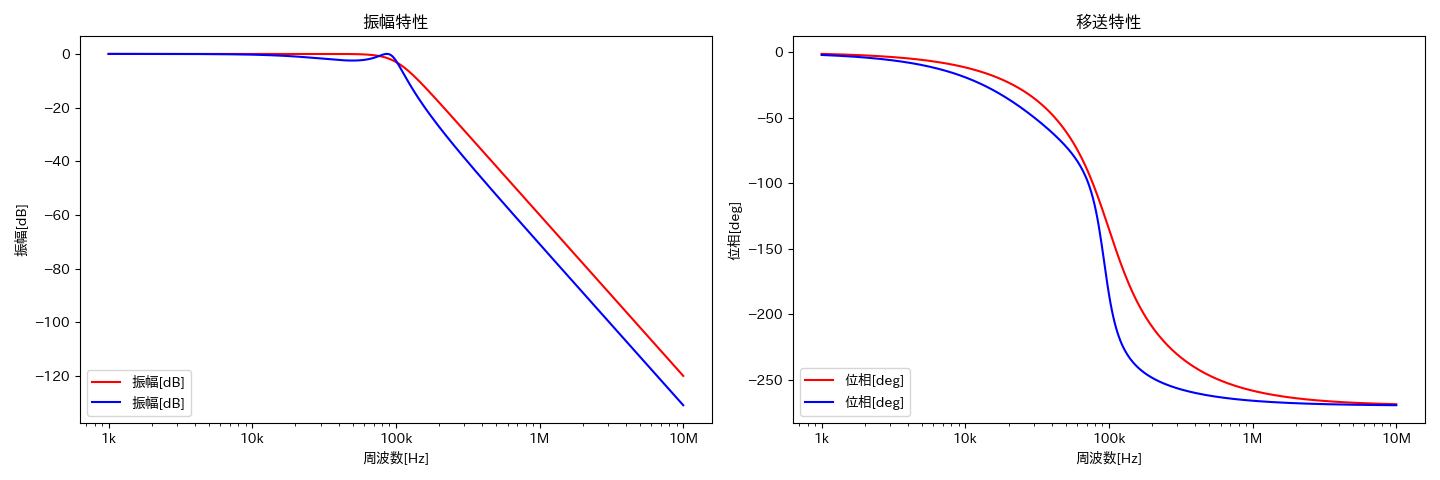
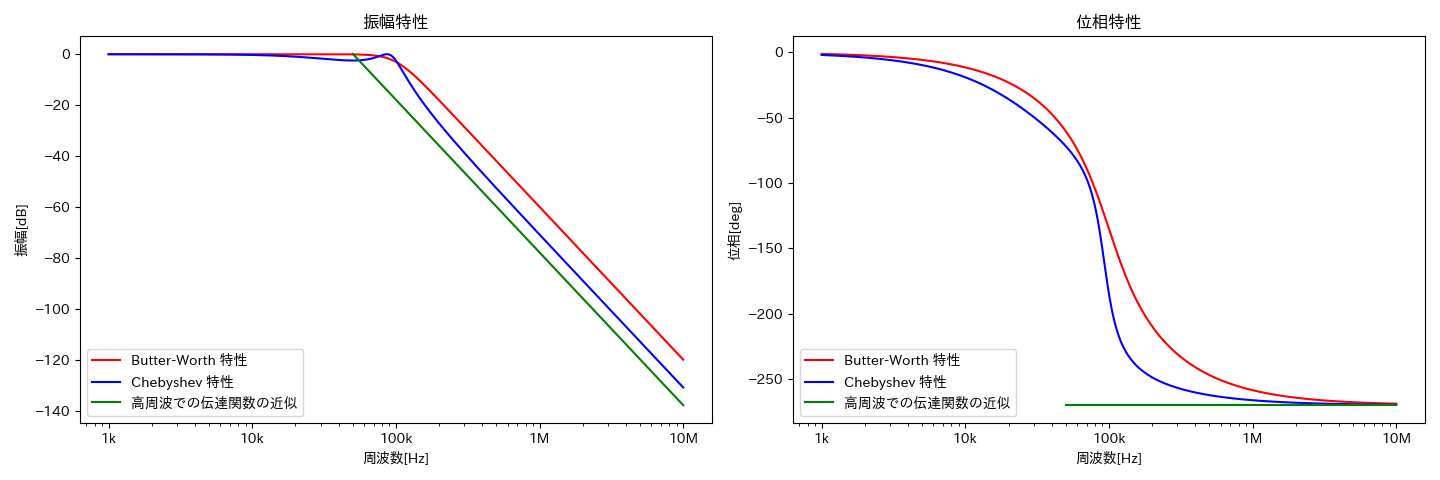
update: compare graph

diff --git a/ltspice/drawer/CompareFreqBWChebysev.py b/ltspice/drawer/CompareFreqBWChebysev.py
@@ -1,4 +1,5 @@
 from matplotlib import pyplot as plt
+import numpy as np
 from ltspice.drawer.BaseDrawer import BaseDrawer
 
 
@@ -20,6 +21,8 @@ class CompareFreqCharsDrawer(BaseDrawer):
         self.configure()
         for key in ["amp", "phase"]:
             self.draw(key)
+
+        self.draw_appro()
 
         self.legend()
         self.fig.tight_layout()
@@ -61,8 +64,25 @@ class CompareFreqCharsDrawer(BaseDrawer):
             xs = self.readers[filt].freqs
             ys = self.readers[filt].amps if key == "amp" else self.readers[filt].phases
             color = self.safe_config_access(["filter", filt, "color"], "black")
+            legend = self.safe_config_access(["filter", filt, "legend"], "hoge[fuga]")
 
-            ax.plot(xs, ys, color=color, label=ylabel)
+            ax.plot(xs, ys, color=color, label=legend)
+
+    def __approximate(self, f):
+        amp = -60.0 * np.log10(2 * np.pi * f) + 330
+        phase = -270.0
+        return (amp, phase)
+
+    def draw_appro(self):
+        bw = self.readers["bw"]
+        freqs = bw.freqs
+        xs = [f for f in freqs if f >= 5e4]
+        ys = [self.__approximate(x) for x in xs]
+        ys_amp = [amp for (amp, _) in ys]
+        ys_phase = [phase for (_, phase) in ys]
+
+        self.axes["amp"].plot(xs, ys_amp, color="green", label="高周波での伝達関数の近似")
+        self.axes["phase"].plot(xs, ys_phase, color="green", label="高周波での伝達関数の近似")
 
     def legend(self):
         for key in ["amp", "phase"]:
